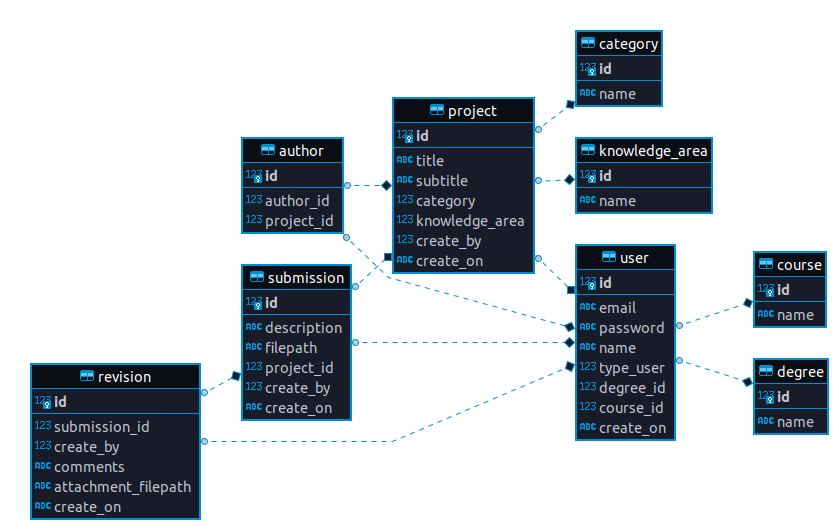
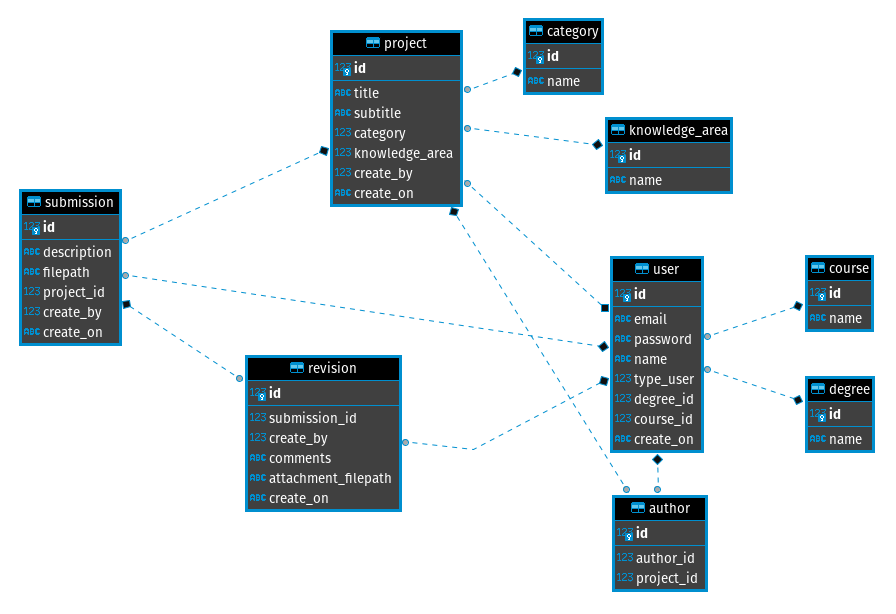
:memo: Atualizando documentação
Atualização da descrição, links e assets de documentação

diff --git a/README.md b/README.md
@@ -1,4 +1,4 @@
-# 📜 Redothis - Gerenciando e documentação a criação acadêmica 
+# 📜 Redothis - Gerenciando e documentando a criação acadêmica 
 
  [🇧🇷] O Redothis é uma plataforma de gerenciamento de projetos acadêmicos. Inicialmente projetado para trabalhos de propósitos gerais. Para mais, leia o README. [🇺🇸] The Redothis this a platform for management academic project of general purposes. For more read the README.
 
@@ -25,7 +25,12 @@
   </a>
 </p>
 
-💡 De um a dois parágrafos sobre o que é seu projeto e o que ele faz.
+💡[🇧🇷] O Redothis é uma maneira de professores e alunos organizarem o desenvolvimento de projetos acadêmicos documentando todas as etapas e gerenciando as versões e artefatos geradas em cada parte desse processo.
+Inicialmente desenvolvido para trabalhos acadêmicos de propósitos gerais, a plataforma está atualmente
+ajustada para receber projetos de Trabalho de Conclusão de Curso - TCC que é o formato usualmente utilizado
+pelas instituições.
+
+💡[🇺🇸] Is coming.
 
 ## 🛠 Instalação
 
@@ -74,21 +79,21 @@ npm test
     * O primeiro lançamento adequado
     * MUDANÇA: Renomeia `foo()` para `bar()` -->
 * 0.0.1
-    * Modelo de banco de dados gerado incialmente:
+    * Representação do diagrama relacional do banco de dados:
          
-         <img src="https://raw.githubusercontent.com/vittorduartte/redothis-backend/main/assets/database_diagram.png" width="500" height="300">
+         <img src="https://raw.githubusercontent.com/vittorduartte/redothis-backend/main/assets/database_diagram.png">
 
 ## 📋 Meta
 
-Seu Nome – [Portfólio](https://www...) – SeuEmail@exemplo.com
+Mateus Vitor – [Portfólio](https://vittorduartte.github.io/) – mateusriograndense@gmail.com
 
-Distribuído sob a licença XYZ. Veja `LICENSE` para mais informações.
+<!-- Distribuído sob a licença XYZ. Veja `LICENSE` para mais informações. -->
 
-[https://github.com/seuUsuario/nomeDoRepositorio](https://github.com/devgabrieldejesus/)
+[https://github.com/vittorduartte/redothis-backend](https://github.com/vittorduartte/redothis-backend)
 
 ## 🚀 Contribuição
 
-1. Faça o _fork_ do projeto (<https://github.com/seuUsuario/nomeDoRepositorio/fork>)
+1. Faça o _fork_ do projeto (<https://github.com/vittorduartte/redothis-backend/fork>)
 2. Crie uma _branch_ para sua modificação (`git checkout -b meu-novo-recurso`)
 3. Faça o _commit_ (`git commit -am 'Adicionando um novo recurso...'`)
 4. _Push_ (`git push origin meu-novo-recurso`)
